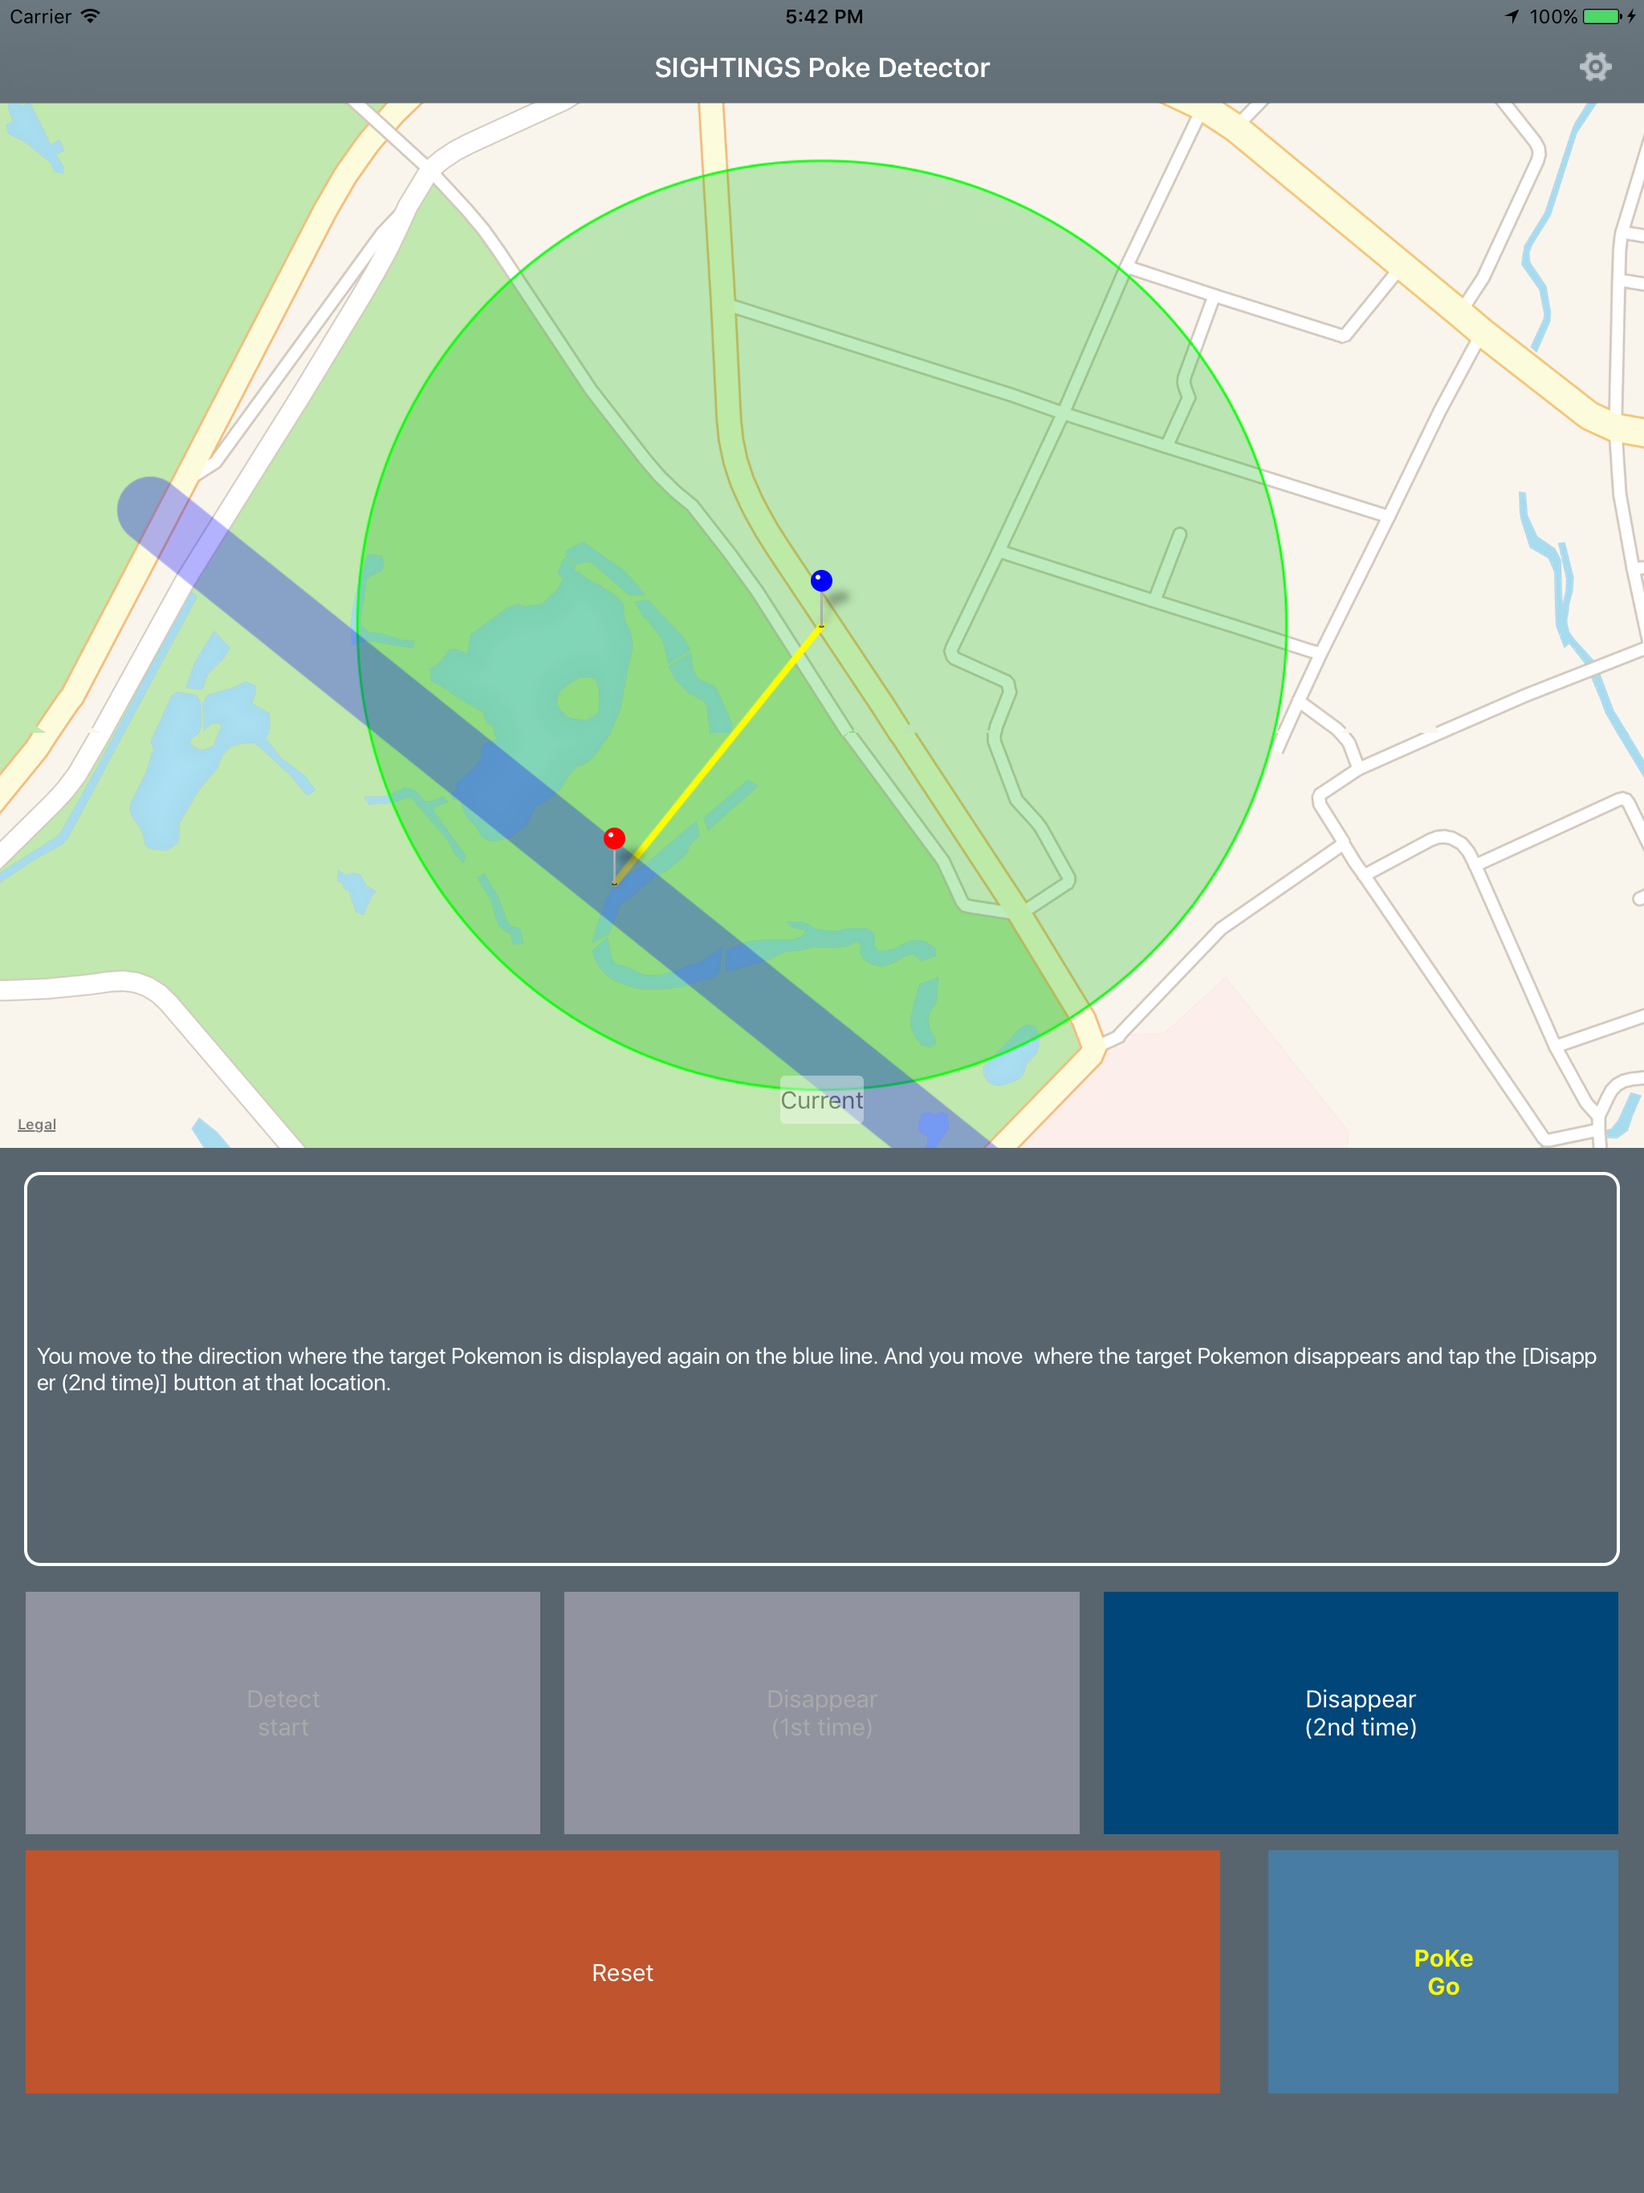
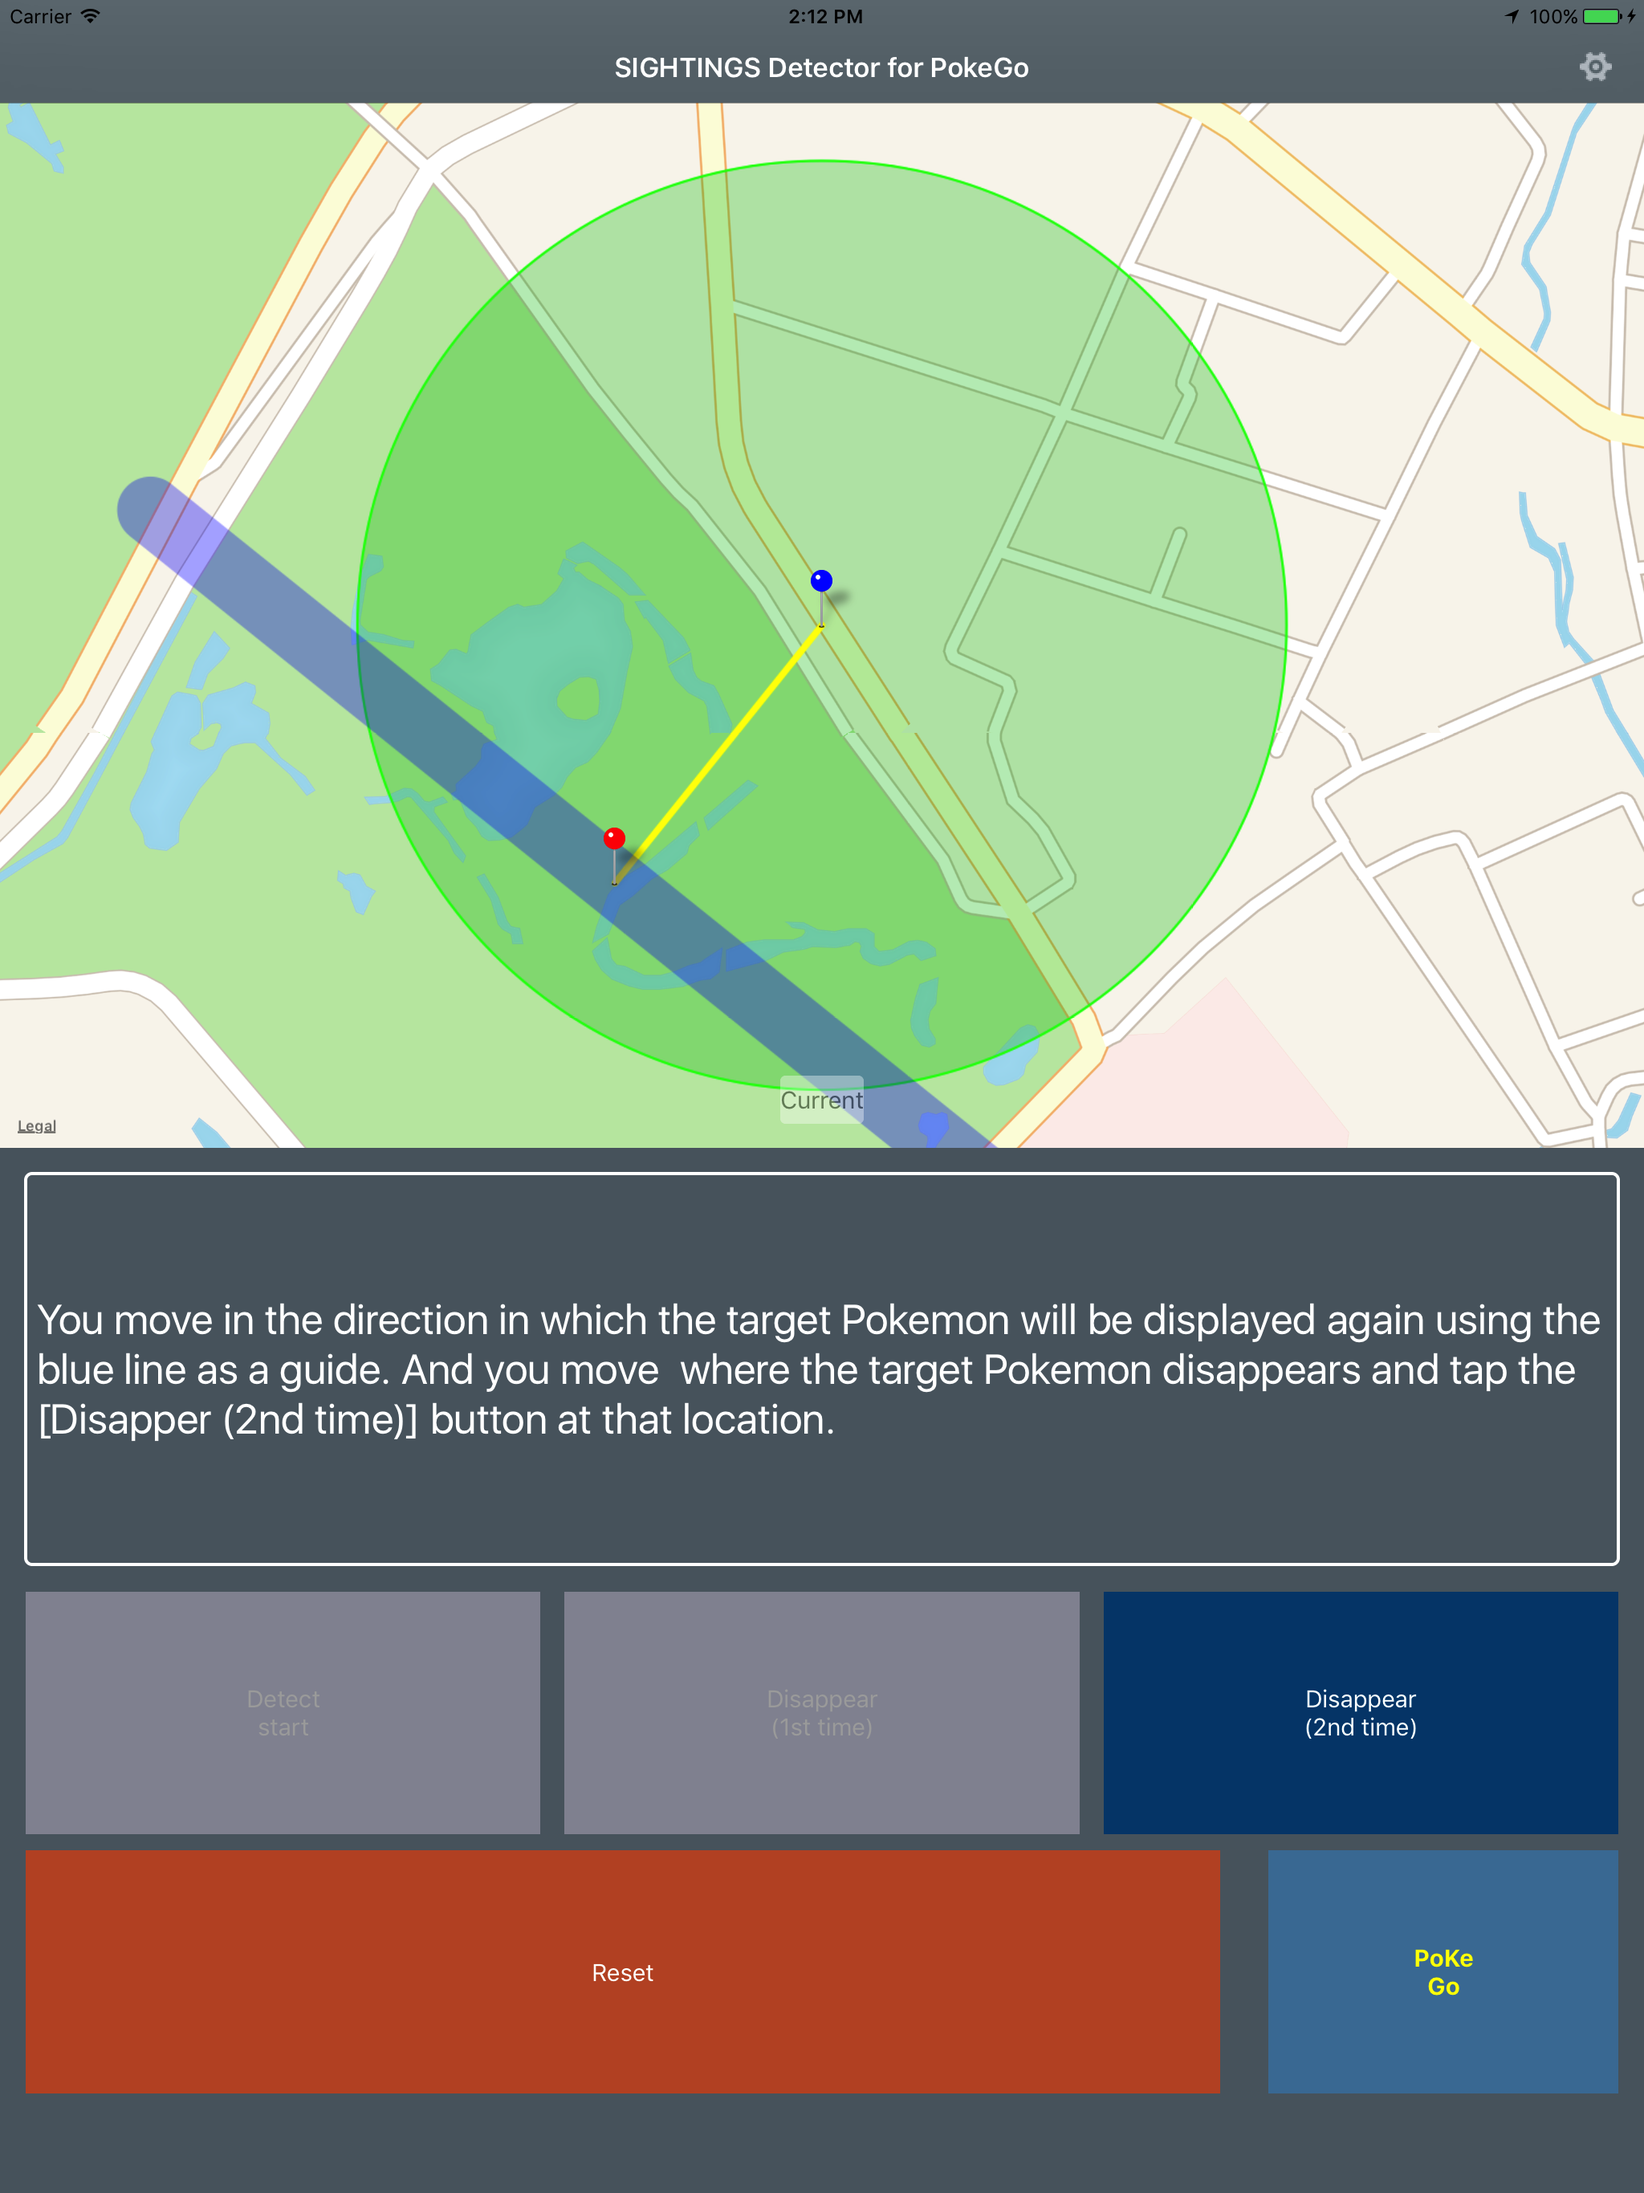
[update] ver1.1 build:3 ガイドメッセージの文字サイズを機種ごとに自動調整する機能を追加

diff --git a/src/HiddenPokemonSearcher/MainViewController.swift b/src/HiddenPokemonSearcher/MainViewController.swift
@@ -89,12 +89,12 @@ class MainViewController: UIViewController, MKMapViewDelegate {
         lcMgr.initMgr(pvc:self)
         lcMgr.StartLocationSearch()
     }
-
+    
     override func viewDidAppear(_ animated: Bool) {
         super.viewDidAppear(animated)
         
         adMgr.dispAdView(pos: AdModMgr.DISP_POSITION.BOTTOM)
-        
+        initEachViewItem()
         procStateMgr(PROC_EVENT.TAP_RESET)
     }
     
@@ -267,9 +267,6 @@ class MainViewController: UIViewController, MKMapViewDelegate {
         
         // procedures state
         procState = PROC_STATE.WAIT_START
-        
-        // view
-        initEachViewItem()
     }
     
     /**
@@ -294,13 +291,18 @@ class MainViewController: UIViewController, MKMapViewDelegate {
         // guide area
         guideMessageLabel.layer.borderWidth = 2.0
         guideMessageLabel.layer.borderColor = UIColor.white.cgColor
-        guideMessageLabel.layer.cornerRadius = 10.0
+        guideMessageLabel.layer.cornerRadius = 5.0
         guideMessageLabel.text = ""
         guideMessageLabel.numberOfLines = 0
-        guideMessageLabel.text = "１２３４５６７８９０１２３４５６７８９０１２３４５６７８９０１２３４５６７８９０１２３４５６７８９０１２３４５６７８９０１２３４５６７８９０"
+        guideMessageLabel.text = "123456789012345678901234567890123456789012345\n" +
+                                    "123456789012345678901234567890123456789012345\n" +
+                                    "123456789012345678901234567890123456789012345\n" +
+                                    "123456789012345678901234567890123456789012345"
+
         guideMessageLabel.fontSizeToFit()
+        guideMessageLabel.lineBreakMode = NSLineBreakMode.byWordWrapping
         guideMessageLabel.text = ""
-        
+
         // button area
         searchStartButton.titleLabel!.lineBreakMode = NSLineBreakMode.byWordWrapping
         searchStartButton.titleLabel!.numberOfLines = 2
@@ -367,6 +369,7 @@ class MainViewController: UIViewController, MKMapViewDelegate {
             dispCurrentLocation()
         case PROC_EVENT.TAP_RESET:
             initProc()
+            initEachViewItem()
             procState = PROC_STATE.WAIT_START
         default:
             // no action
@@ -690,7 +693,7 @@ class MainViewController: UIViewController, MKMapViewDelegate {
             button.backgroundColor = UIColor.hexStr(hexStr: "004679", alpha: 1)
         }
         else {
-           button.backgroundColor = UIColor.hexStr(hexStr: "9193a0", alpha: 1)
+            button.backgroundColor = UIColor.hexStr(hexStr: "9193a0", alpha: 1)
         }
     }
     

diff --git a/src/HiddenPokemonSearcher/PaddingLabel.swift b/src/HiddenPokemonSearcher/PaddingLabel.swift
@@ -37,7 +37,7 @@ class PaddingLabel: UILabel {
             return
         }
         var size = self.frame.size
-        size.height = (size.height * 0.8) - (padding.bottom + padding.top)
+        size.height = (size.height) - (padding.bottom + padding.top)
         size.width = (size.width) - (padding.left + padding.right)
         
         let fontName = self.font.fontName
